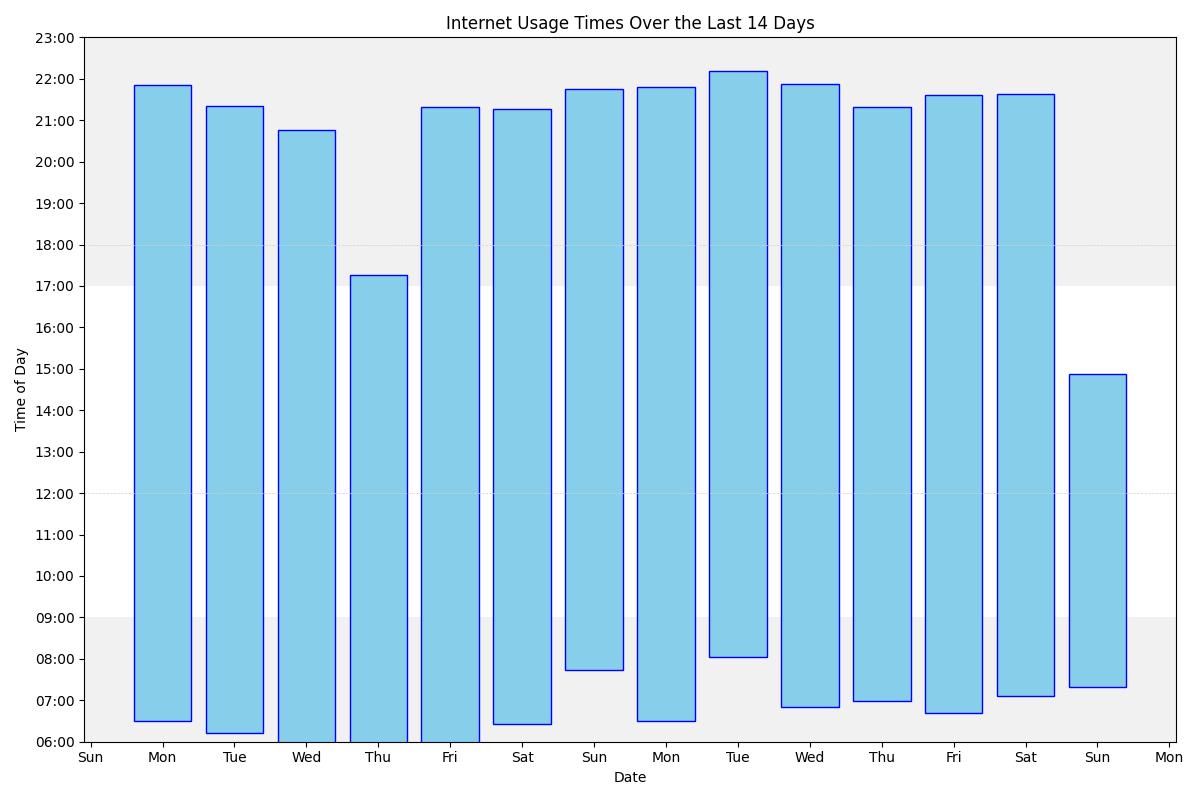
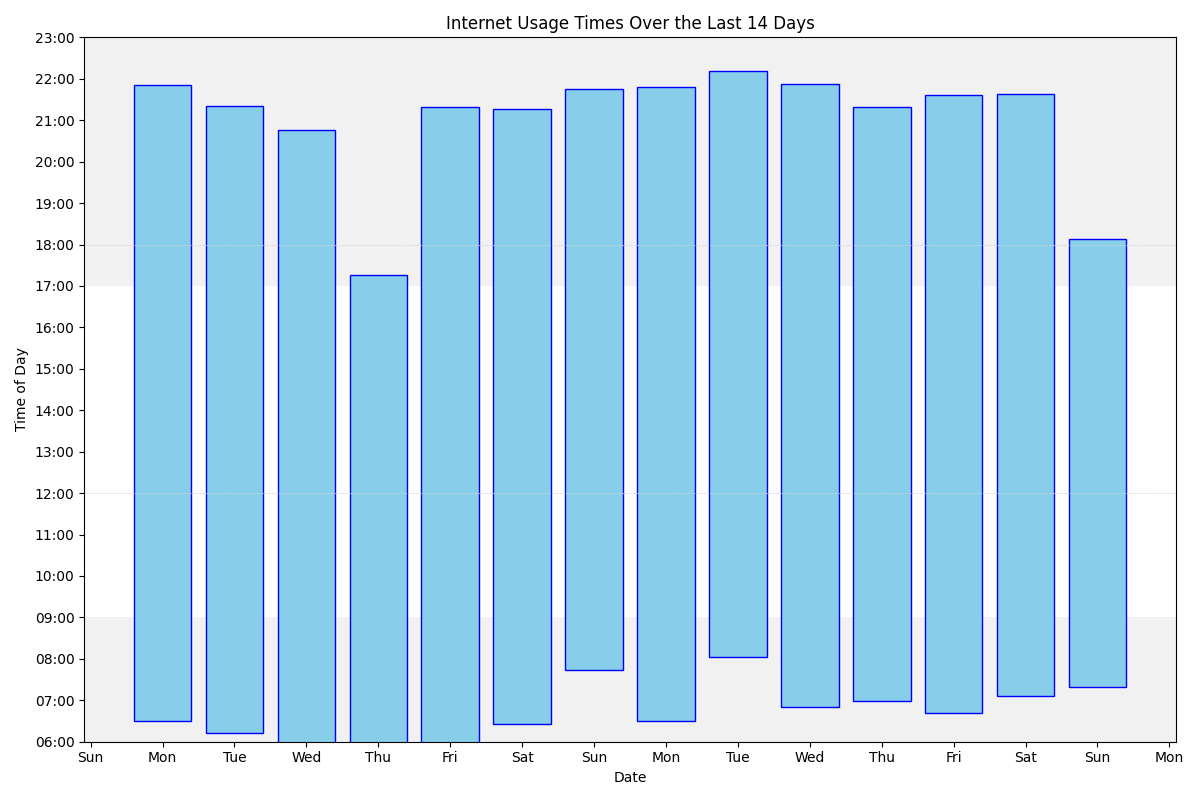
Update

Changed region(s): [[0.8633, 0.2812, 0.9558, 0.4688]]

diff --git a/index.md b/index.md
@@ -68,7 +68,7 @@ ul>li::after {
 <h3> Most common sites</h3>
 With number of accesses/minutes in parentheses
 
-<ol><li>www.google.com (2704)</li>
+<ol><li>www.google.com (2706)</li>
 <li>outlook.office.com (2207)</li>
 <li>mail.google.com (2056)</li>
 <li>docs.google.com (1719)</li>
@@ -80,8 +80,8 @@ With number of accesses/minutes in parentheses
 <li>www.amazon.co.uk (639)</li>
 <li>chatgpt.com (576)</li>
 <li>calendar.google.com (438)</li>
+<li>www.theguardian.com (434)</li>
 <li>rhul-my.sharepoint.com (434)</li>
-<li>www.theguardian.com (431)</li>
 <li>www.linkedin.com (387)</li>
 <li>github.com (378)</li>
 <li>moodle.royalholloway.ac.uk (371)</li>
@@ -108,7 +108,16 @@ With number of accesses/minutes in parentheses
 
 <br>
 
-<ul><li> 14:51 www.google.com</li>
+<ul><li> 18:08 www.theguardian.com</li>
+<li class='same'> 18:07 www.theguardian.com</li>
+<li class='same'> 18:06 www.theguardian.com</li>
+<li> 18:06 www.google.com</li>
+</ul>
+
+<br>
+
+<ul><li class='same'> 14:52 www.google.com</li>
+<li class='same'> 14:51 www.google.com</li>
 <li> 14:51 www.theguardian.com</li>
 <li> 14:48 web.whatsapp.com</li>
 <li> 14:48 docs.google.com</li>
